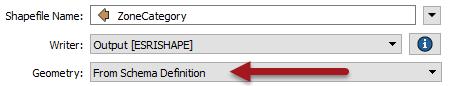
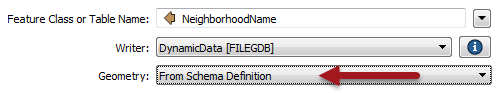
Adv Ch2 2018.1 and Grammarly review + changes for instructor workspaces

diff --git a/DesktopAdvanced3AdvancedR+W/3.15.DynamicGeometryHandling.md b/DesktopAdvanced3AdvancedR+W/3.15.DynamicGeometryHandling.md
@@ -16,7 +16,7 @@ The geometry permitted in an output dataset depends on the format used. Some for
 
 However, some formats do not allow a mix of geometries in a single feature type, and that can cause problems.
 
-For example, a standard (static) Shapefile writer feature type allows you to pick the geometry allowed in that file:
+For example, a standard (static) Geodatabase writer feature type allows you to pick the geometry allowed in that file:
 
 ![](./Images/Img3.054.NonDynamicGeometrySetting.png)
 
@@ -24,7 +24,7 @@ In a dynamic workspace, this changes. The geometry type permitted depends on tha
 
 ![](./Images/Img3.055.DynamicGeometrySetting.png)
 
-By default - when the Schema Source is the same as the source data being read by the reader - then the permitted geometry will be a duplicate of that source dataset's schema.
+By default - when the Schema Source is the same as the source data being read by the reader - then the permitted geometry is a duplicate of that source dataset's schema.
 
 But when the Schema Source parameter is changed to point to another dataset, then the permitted geometry is what is defined by that dataset's schema. 
 
@@ -34,11 +34,9 @@ If the geometry of the data to be written is different from that schema, and the
 
 ### Fixed Geometry Definition ###
 
-Even in a dynamic translation, the workspace author may set the dynamic schema parameter for permitted geometry and back to a fixed value:
+Even in a dynamic translation, the workspace author may set the dynamic schema parameter for permitted geometry back to a fixed value. For example, the author could choose geodb&#95;polygon (for a Geodatabase) or shape&#95;polygon (for a Shapefile). 
 
-![](./Images/Img3.056.DynamicGeometrySettings.png) 
-
-Here the author is selecting shape_polygon as the permitted geometry type. This will override the geometry defined by the chosen schema source, so that polygon features (but only polygon features) can be written.
+This will override the geometry defined by the chosen schema source, so that polygon features (but only polygon features) can be written.
 
 ---
 
@@ -67,9 +65,9 @@ For example, if the first feature is a polygon, then the geometry type for that 
 <tr>
 <td style="border: 1px solid darkorange">
 <span style="font-family:serif; font-style:italic; font-size:larger">
-If you've understood everything so far about dynamic translations, without having to read each section at least twice, then you are doing very well. This is a very advanced topic and not everyone will get it first time.
-<br><br>Basically, all of these settings allow us to create an output dataset whose schema is defined in multiple ways. 
-<br><br>If you can keep that idea in your head, when faced with schema handling beyond the usual static workspace you'll know what functionality is required and can look it up in this manual or on the <a href="https://knowledge.safe.com/index.html">FME Knowledge Centre</a>, and be able to figure out what techniques match your particular need.
+If you've understood everything so far about dynamic translations, without having to read each section at least twice, then you are doing very well. This is a very advanced topic, and not everyone will understand it the first time.
+<br><br>Basically all of these settings allow us to create an output dataset whose schema is defined in multiple ways. 
+<br><br>If you can keep that idea in your head when faced with schema handling beyond the usual static workspace, you'll know what functionality is required and can look it up in this manual or on the <a href="https://knowledge.safe.com/index.html">FME Knowledge Centre</a>, and be able to figure out what techniques match your particular need.
 <br><br>Also, this table may help...
 <br><table border=1 cellspacing=0 cellpadding=0>
 <tr>
@@ -81,25 +79,25 @@ If you've understood everything so far about dynamic translations, without havin
 <tr>
 <td style="font-weight:bold;text-align:right">I Know the Layers</td>
 <td style="text-align:center;">Static</td>
-<td style="text-align:center;">Generic</td>
+<td style="text-align:center;">Generic + Static</td>
 <td style="font-weight:bold;text-align:left">I Know the Attributes</td>
 </tr>
 <tr>
 <td style="font-weight:bold;text-align:right">I Don't Know the Layers</td>
 <td style="text-align:center;">Fanout</td>
-<td style="text-align:center;">Generic+Fanout</td>
+<td style="text-align:center;">Generic + Fanout</td>
 <td style="font-weight:bold;text-align:left">I Know the Attributes</td>
 </tr>
 <tr>
 <td style="font-weight:bold;text-align:right">I Know the Layers</td>
 <td style="text-align:center;">Dynamic</td>
-<td style="text-align:center;">Generic+Dynamic</td>
+<td style="text-align:center;">Generic + Dynamic</td>
 <td style="font-weight:bold;text-align:left">I Don't Know the Attributes</td>
 </tr>
 <tr>
 <td style="font-weight:bold;text-align:right">I Don't Know the Layers</td>
 <td style="text-align:center;">Dynamic</td>
-<td style="text-align:center;">Generic+Dynamic</td>
+<td style="text-align:center;">Generic + Dynamic</td>
 <td style="font-weight:bold;text-align:left">I Don't Know the Attributes</td>
 </tr>
 </table>
